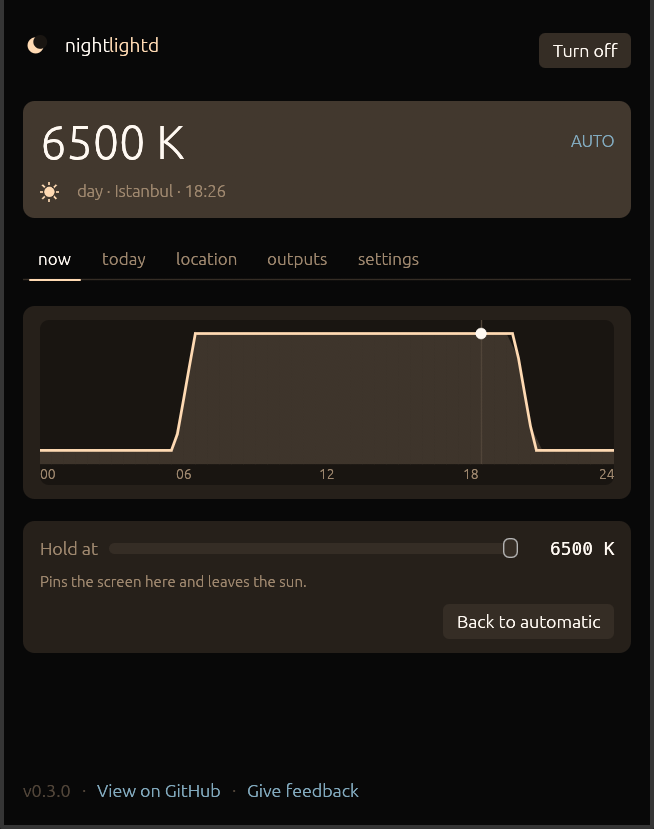
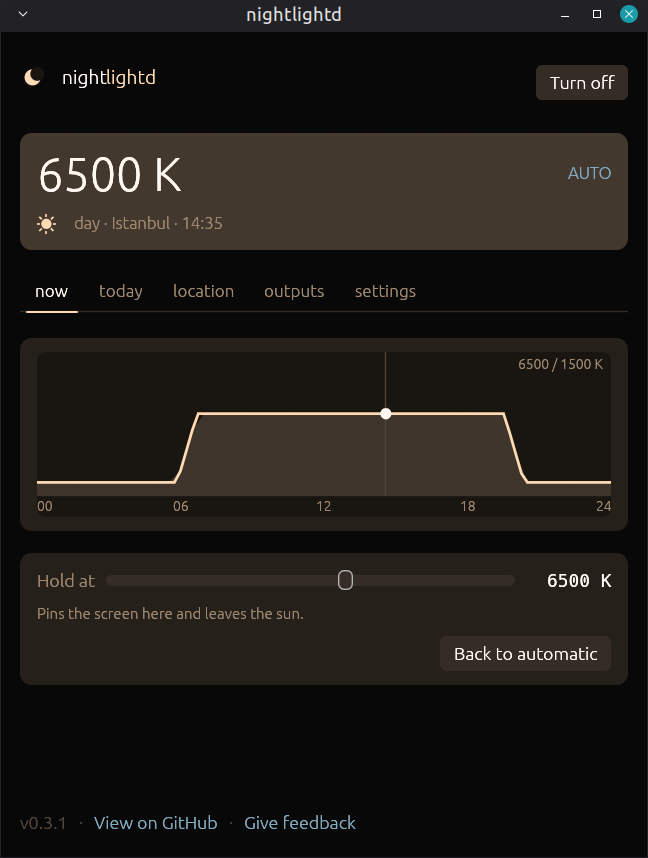
showcase: re-record for 0.3.1, and make the two reels one day
The screenshots and the reels had gone stale in exactly the way RELEASING.md
warns about, and this time it was the release's own work that moved them:
the panel's curve axis is fixed 1500-10000 now (#41), so the day plateau no
longer sits against the top edge and a corner label spells the bounds out;
the dashboard's settings rails share that scale, so a 6500 K day no longer
fills its bar. Every picture of either was a picture of the old program.

Two things had to change before re-recording was worth doing.

The panel's demo had no daemon to seed its bounds from, so it kept the config
default of 4500 for night. That was fine while the axis stopped at neutral
and 6500/4500 filled two fifths of the frame; on the fixed axis the same pair
draws as very nearly a straight line, and the panel's reel is thirty seconds
of taking hold of a curve. It starts from 2600 now.

The dashboard's demo used its stand-in snapshot only when no daemon was
running, and borrowed the real one otherwise — so the reel showed whatever
bounds the recorder happened to have configured. Two consequences, both bad:
nobody else could reproduce the recording, and the two reels the README shows
side by side as one compressed day were showing different nights, 1500
against 2600. It uses the stand-in always now, as the panel's demo already
did by muting its client.

So both reels are Istanbul at 6500/2600, and re-recording either gets the
same day back.

Changed region(s): [[0.0, 0.0, 1.0, 1.0], [0.3704, 0.9349, 0.5556, 0.965], [0.1543, 0.9349, 0.3395, 0.965]]

diff --git a/panel/src/main.rs b/panel/src/main.rs
@@ -33,6 +33,28 @@ use crate::daemon::{Client, Status};
 const WARMEST: u32 = nightlightd_core::color::UI_TEMPERATURE_RANGE.0;
 const COOLEST: u32 = nightlightd_core::color::UI_TEMPERATURE_RANGE.1;
 
+/// What the bounds are until the daemon says otherwise: the config's own
+/// defaults, so a panel opened before the first status shows the shape most
+/// people are actually running.
+const DEFAULT_DAY: u32 = 6500;
+const DEFAULT_NIGHT: u32 = 4500;
+
+/// Except in a demo, which has no daemon to correct it — so what it starts
+/// with is what the reel shows for its whole length.
+///
+/// The dashboard's demo has used a deep night since it existed. This one
+/// kept the config default, which was fine while the curve's axis stopped at
+/// neutral and a 6500/4500 day filled two fifths of the frame. On the fixed
+/// 1500-10000 axis (#41) the same pair draws as a nearly flat line, and a
+/// reel whose subject is taking hold of the curve needs a curve with a shape
+/// in it. Matched to the dashboard's value so the two reels, shown side by
+/// side in the README, are pictures of the same day.
+const DEMO_NIGHT: u32 = 2600;
+
+fn default_night(demo: bool) -> u32 {
+    if demo { DEMO_NIGHT } else { DEFAULT_NIGHT }
+}
+
 /// Where the slider starts before the user has touched it.
 const START_KELVIN: u32 = 2800;
 
@@ -2407,11 +2429,11 @@ fn main() -> eframe::Result<()> {
             Ok(Box::new(Panel {
                 client,
                 kelvin: START_KELVIN,
-                day_temp: 6500,
-                night_temp: 4500,
+                day_temp: DEFAULT_DAY,
+                night_temp: default_night(args.demo),
                 anchors_synced: false,
-                orig_day: 6500,
-                orig_night: 4500,
+                orig_day: DEFAULT_DAY,
+                orig_night: default_night(args.demo),
                 gamma: 1.0,
                 night_dim: 1.0,
                 orig_gamma: 1.0,

diff --git a/tui/src/main.rs b/tui/src/main.rs
@@ -340,8 +340,10 @@ struct App {
     demo_key: Option<(&'static str, Instant)>,
 }
 
-/// The stand-in snapshot for `--demo` without a daemon: Istanbul, the
-/// defaults, following the sun. Honest about itself in the source field.
+/// The snapshot `--demo` runs on, daemon or no daemon: Istanbul, following
+/// the sun, and a night deep enough to draw a curve with a shape in it.
+/// Honest about itself in the source field. The panel's demo starts from the
+/// same pair, so the two reels are one day seen twice.
 fn demo_status() -> Status {
     Status {
         enabled: true,
@@ -2330,11 +2332,12 @@ impl App {
         self.fade = Some(true);
         self.band = Band::default();
         self.band_known = true;
-        let mut status = self
-            .status
-            .take()
-            .filter(|s| s.has_location)
-            .unwrap_or_else(demo_status);
+        // The stand-in always, never the recorder's own daemon. Borrowing
+        // whatever bounds happen to be configured makes a reel nobody else
+        // can reproduce — and it made the two reels in the README pictures
+        // of different days, since the panel's demo has muted its client
+        // since it existed.
+        let mut status = demo_status();
         let (midnight, _) = self.day_context();
         let elevation =
             solar_elevation(status.latitude, status.longitude, midnight + hour * 3600.0);
